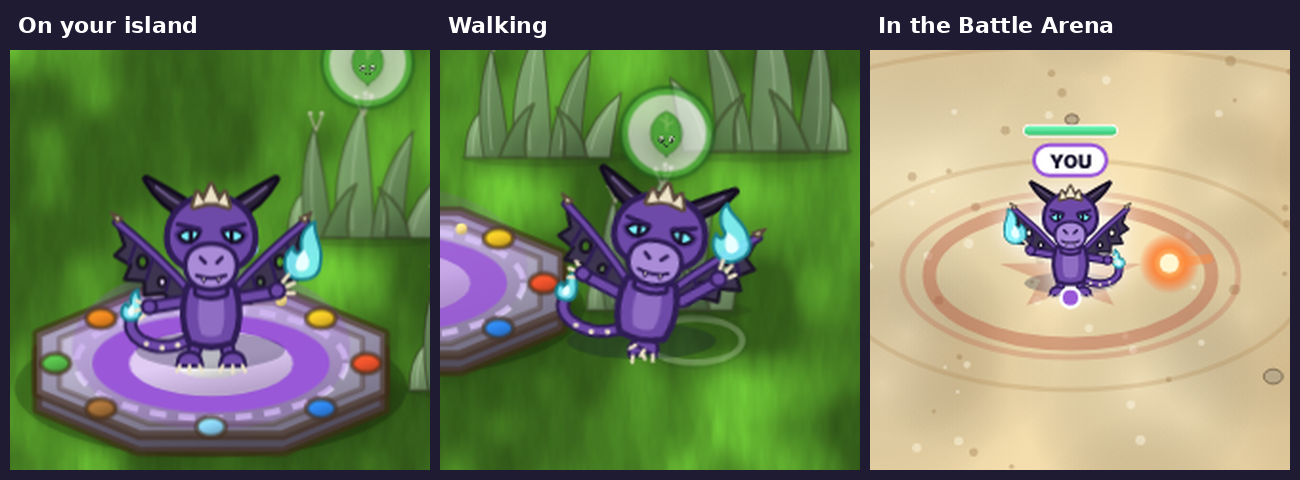
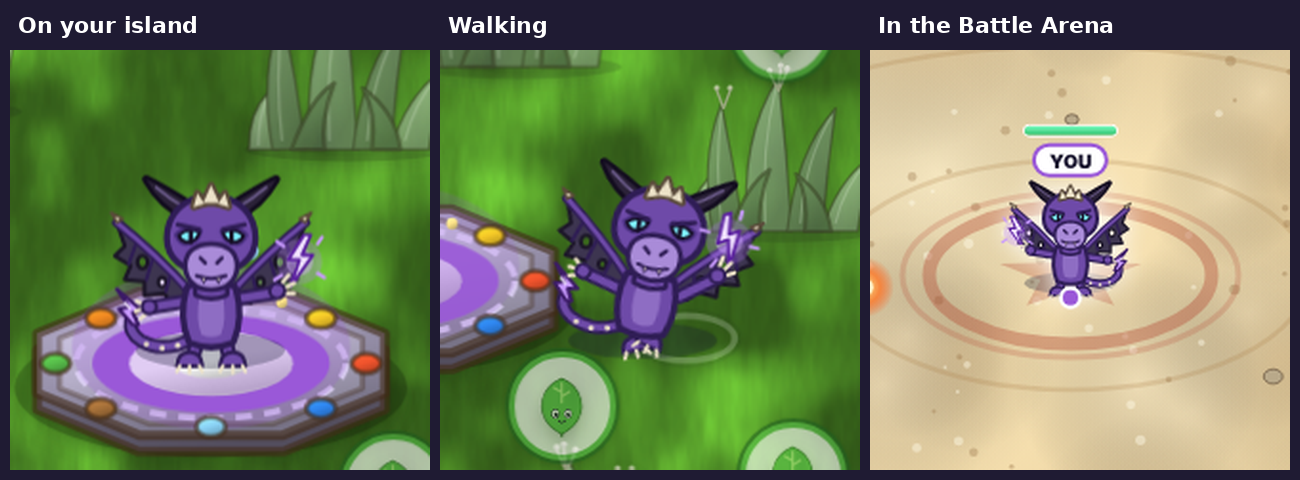
Preview: undead dragon uses purple lightning instead of ghost flames
Claude-Session: https://claude.ai/code/session_01VLdLc5ictpYJybhtPWKJ3B

diff --git a/src/previews/wyrm.js b/src/previews/wyrm.js
@@ -1,13 +1,14 @@
 /* Undead purple dragon (no name yet): an original slim grave dragon pal (preview only). Undead, ranged.
    Long snout, dark swept-back horns, bone ridge spikes, glowing cyan eyes,
-   torn wings with holes, a bony tail ending in a ghost flame, and a floating ghost flame he throws. */
+   torn wings with holes, a bony tail ending in a purple lightning bolt, and purple lightning he shoots. */
 var WYRM = { P: '#6e4aa8', PD: '#2f1d55', PL: '#a98bd8', SH: '#4a3080', B: '#ece2c8', BD: '#5a4a3a', G: '#7ff3ff', GD: '#1a7f8f', M: '#3d3550', MD: '#1c1628' };
-function wyrmFlame(cx, cy, s){
-  var W = WYRM;
-  return '<path d="M' + cx + ' ' + (cy + 8 * s) + 'C' + (cx - 7 * s) + ' ' + (cy + 8 * s) + ' ' + (cx - 8 * s) + ' ' + cy + ' ' + (cx - 3 * s) + ' ' + (cy - 4 * s) +
-    'C' + (cx - 3 * s) + ' ' + (cy - 1 * s) + ' ' + (cx - 1 * s) + ' ' + (cy - 1 * s) + ' ' + cx + ' ' + (cy - 3 * s) + 'C' + (cx - 1 * s) + ' ' + (cy - 8 * s) + ' ' + (cx + 2 * s) + ' ' + (cy - 12 * s) + ' ' + (cx + 5 * s) + ' ' + (cy - 13 * s) +
-    'C' + (cx + 4 * s) + ' ' + (cy - 8 * s) + ' ' + (cx + 8 * s) + ' ' + (cy - 5 * s) + ' ' + (cx + 7 * s) + ' ' + (cy + 1 * s) + 'C' + (cx + 7 * s) + ' ' + (cy + 6 * s) + ' ' + (cx + 4 * s) + ' ' + (cy + 8 * s) + ' ' + cx + ' ' + (cy + 8 * s) + 'Z" fill="' + W.G + '" fill-opacity=".9" stroke="' + W.GD + '" stroke-width="1.6" stroke-linejoin="round"/>' +
-    '<path d="M' + cx + ' ' + (cy + 5 * s) + 'C' + (cx - 3 * s) + ' ' + (cy + 5 * s) + ' ' + (cx - 3 * s) + ' ' + (cy + 1 * s) + ' ' + (cx + 1 * s) + ' ' + (cy - 3 * s) + 'C' + (cx + 4 * s) + ' ' + (cy + 1 * s) + ' ' + (cx + 3 * s) + ' ' + (cy + 5 * s) + ' ' + cx + ' ' + (cy + 5 * s) + 'Z" fill="#e8ffff"/>';
+/* crackling purple lightning: a glow, a zigzag bolt and a few sparks */
+function wyrmBolt(cx, cy, s){
+  function P(x, y){ return (cx + x * s).toFixed(1) + ' ' + (cy + y * s).toFixed(1); }
+  return '<circle cx="' + cx + '" cy="' + cy + '" r="' + (10 * s) + '" fill="#b77bff" fill-opacity=".28"/>' +
+    '<circle cx="' + cx + '" cy="' + cy + '" r="' + (6 * s) + '" fill="#d6b3ff" fill-opacity=".45"/>' +
+    '<path d="M' + P(2, -12) + 'L' + P(-5, -1) + 'L' + P(0, -1) + 'L' + P(-4, 11) + 'L' + P(6, -3) + 'L' + P(1, -3) + 'L' + P(5, -12) + 'Z" fill="#f1e2ff" stroke="#5a1fa0" stroke-width="1.6" stroke-linejoin="round"/>' +
+    '<path d="M' + P(-7, -7) + 'L' + P(-10, -9) + 'M' + P(8, 5) + 'L' + P(11, 7) + 'M' + P(-8, 6) + 'L' + P(-11, 8) + 'M' + P(8, -8) + 'L' + P(10, -11) + '" stroke="#c99aff" stroke-width="' + (1.6 * s).toFixed(1) + '" stroke-linecap="round"/>';
 }
 function wyrmArt(){
   var W = WYRM, O = '#160f26';
@@ -59,12 +60,13 @@ function wyrmBack(c){
       '<path d="' + bone + '" fill="none" stroke="' + W.P + '" stroke-width="2.4" stroke-linecap="round"/>' +
       '<path d="M' + X(2) + ' 30L' + X(-1) + ' 25L' + X(5) + ' 28Z" fill="' + W.B + '" stroke="' + W.BD + '" stroke-width="1.4" stroke-linejoin="round"/>';
   }
-  /* thin bony tail out to the left, a ghost flame at the tip */
+  /* thin bony tail out to the left, a purple lightning bolt at the tip */
   var tailPath = 'M40 89Q26 97 14 90Q8 86 9 80';
   var tail = '<path d="' + tailPath + '" fill="none" stroke="' + W.PD + '" stroke-width="7" stroke-linecap="round"/>' +
     '<path d="' + tailPath + '" fill="none" stroke="' + W.P + '" stroke-width="3.6" stroke-linecap="round"/>' +
     '<circle cx="33" cy="92.5" r="1.4" fill="' + W.B + '"/><circle cx="25" cy="94" r="1.4" fill="' + W.B + '"/><circle cx="17" cy="92" r="1.3" fill="' + W.B + '"/>' +
-    wyrmFlame(9, 74, 0.75);
+    '<path d="M10 82L3 74L8 73L2 64L15 75L10 76L13 82Z" fill="#c99aff" stroke="#3b1a66" stroke-width="1.8" stroke-linejoin="round"/>' +
+    '<path d="M6 71L8.5 73.5" stroke="#f1e2ff" stroke-width="1.4" stroke-linecap="round"/>';
   /* back arm: thin, with bone claws */
   var claw = '<path d="M17 72L12 70M17 73.5L11.5 75M18 75.5L14 79" stroke="' + W.B + '" stroke-width="2" stroke-linecap="round"/><circle cx="18.5" cy="73" r="3.6" fill="' + W.P + '" stroke="' + W.PD + '" stroke-width="1.8"/>';
   return '<svg class="limbs" viewBox="0 0 100 100" aria-hidden="true" style="overflow:visible">' + wing(-1) + wing(1) + tail + leg('lgL', 44, 41, 39) + leg('lgR', 56, 59, 61) +
@@ -73,8 +75,8 @@ function wyrmBack(c){
 }
 function wyrmFront(c){
   var W = WYRM;
-  /* a ghost flame floating over his claw; it sits in the weapon group so it jolts when he attacks */
-  var flame = '<g transform="rotate(-18 86 64)">' + wyrmFlame(96, 48, 1.4) + '</g>';
+  /* purple lightning crackling over his claw; it sits in the weapon group so it jolts when he attacks */
+  var flame = '<g transform="rotate(-18 86 64)">' + wyrmBolt(95, 50, 1.15) + '</g>';
   return '<svg class="limbs" viewBox="0 0 100 100" aria-hidden="true" style="overflow:visible">' +
     '<g><g class="pump pR"><g class="wpn">' + flame +
     '<path d="M85 61L87 56M87.5 62.5L91 59M88 65.5L92.5 64" stroke="' + W.B + '" stroke-width="2" stroke-linecap="round"/>' +
